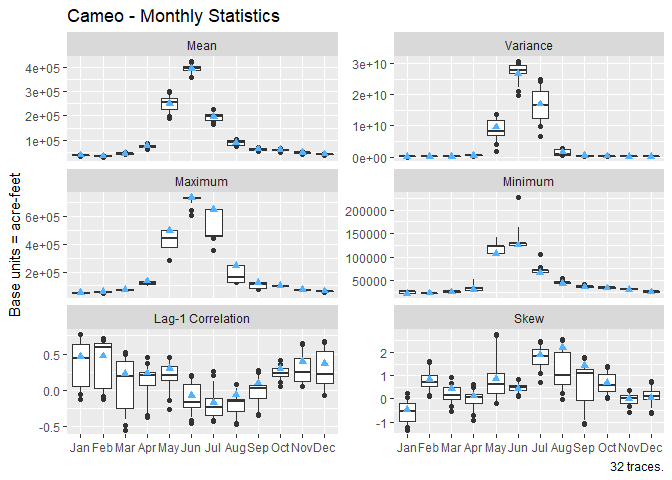
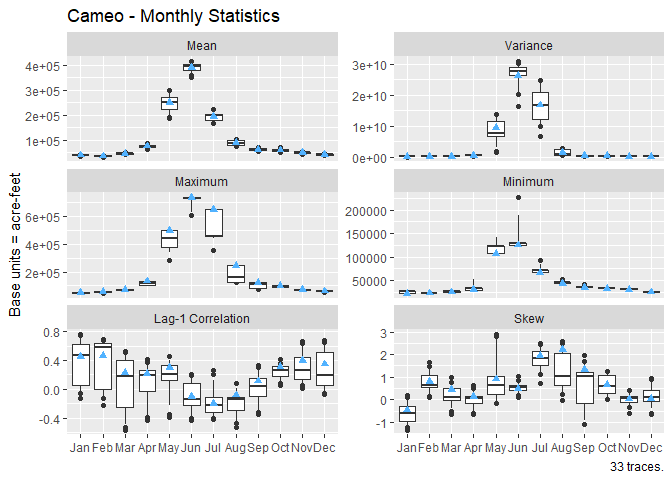
v0.10.0

diff --git a/README.md b/README.md
@@ -5,15 +5,15 @@
 
 <!-- badges: start -->
 
-*Stable version (v0.9.1):* [![R build
+*Stable version (v0.10.0):* [![R build
 status](https://github.com/BoulderCodeHub/CRSSIO/workflows/R-CMD-check/badge.svg)](https://github.com/BoulderCodeHub/CRSSIO/actions)
 [![Codecov test
 coverage](https://codecov.io/gh/BoulderCodeHub/CRSSIO/branch/master/graphs/badge.svg)](https://codecov.io/gh/BoulderCodeHub/CRSSIO)
 
 *Development version:* [![R build
-status](https://github.com/rabutler-usbr/CRSSIO/workflows/R-CMD-check/badge.svg)](https://github.com/rabutler-usbr/CRSSIO/actions)
+status](https://github.com/rabutler-usbr/CRSSIO/workflows/R-CMD-check/badge.svg)](https://github.com/BoulderCodeHub/CRSSIO/actions)
 [![Codecov test
-coverage](https://codecov.io/gh/rabutler-usbr/CRSSIO/branch/master/graph/badge.svg)](https://codecov.io/gh/rabutler-usbr/CRSSIO?branch=master)
+coverage](https://codecov.io/gh/BoulderCodeHub/CRSSIO/branch/dev/graph/badge.svg)](https://codecov.io/gh/rabutler-usbr/CRSSIO?branch=dev)
 <!-- badges: end -->
 
 R Package to manipulate the CRSS input and output data.
@@ -72,7 +72,7 @@ and flow space combinations are allowed, but there must be monthly
 intervening data.
 
 `crssi` objects add additional required input into CRSS: the Sacramento
-year type index and a scenario number.
+year type index, St. Vrain natural flow, and a scenario number.
 
 Several methods exist to work with these objects. `reindex()` changes
 the underlying time component so that historical data can be used for
@@ -91,42 +91,30 @@ statistics.
 ``` r
 library(CRSSIO)
 flows <- crss_nf(CoRiverNF::monthlyInt["1988/"])
-#> nfd: Natural Flow Data
-#>  ----------------------
-#>  n traces: 1 
-#>  dates: Jan 1988 - Dec 2019 
-#>  flow space:
-#>  - monthly intervening
 ism_flows <- ism(flows, n_years_keep = 15)
-#> nfd: Natural Flow Data
-#>  ----------------------
-#>  n traces: 32 
-#>  dates: Jan 1988 - Dec 2002 
-#>  flow space:
-#>  - monthly intervening
 hist_stats <- nfd_stats(flows, "Cameo", "intervening", "monthly")
 ism_stats <- nfd_stats(ism_flows, "Cameo", "intervening", "monthly")
 plot(ism_stats, ref = hist_stats, base_units = "acre-feet")
 ```
 
-<img src="man/figures/README-statPlot-1.png" width="100%" />
+<img src="man/figures/README-statPlot-1.png" alt="" width="100%" />
 
 ### `crssi_`
 
--   Create CRSS input files with `crssi_create_dnf_files()`,
-    `crssi_create_cmip_nf_files()`, and `crssi_create_hist_nf_xlsx()`
-    -   These files can also be created with a GUI through an R Studio
-        Addin (see `?crss_input_addin`)
--   Modify existing CRSS natural flow input files with
-    `crssi_change_nf_start_date()`, `crssi_change_nf_file_names()`, and
-    `crssi_change_evap_files()`
+- Create CRSS input files with `crssi_create_dnf_files()`,
+  `crssi_create_cmip_nf_files()`, and `crssi_create_hist_nf_xlsx()`
+  - These files can also be created with a GUI through an R Studio Addin
+    (see `?crss_input_addin`)
+- Modify existing CRSS natural flow input files with
+  `crssi_change_nf_start_date()`, `crssi_change_nf_file_names()`, and
+  `crssi_change_evap_files()`
 
 ### `crsso_`
 
--   `sys_cond_matrix()` and `crsso_get_sys_cond_table()` help create the
-    standard System Conditions Table from CRSS output. Commonly referred
-    to as the “5-year table” but it can go through as many years as
-    simulation data exists. Ex:
+- `sys_cond_matrix()` and `crsso_get_sys_cond_table()` help create the
+  standard System Conditions Table from CRSS output. Commonly referred
+  to as the “5-year table” but it can go through as many years as
+  simulation data exists. Ex:
 
 ``` r
 library(CRSSIO)
@@ -152,50 +140,51 @@ sysCondTable <- crsso_get_sys_cond_table(sysData, 2018:2022)
 
 ### Natural Flow and Salt Names
 
--   Vectors of the natural flow gage names (`nf_gage_names()`), along
-    with corresponding CRSS natural inflow input slot names
-    (`nf_file_names()`), corresponding CRSS natural salt input slot
-    names (`natsalt_file_names()`), and corresponding abbreviated, i.e.,
-    variable, names (`nf_gage_abbrv()`).
+- Vectors of the natural flow gage names (`nf_gage_names()`), along with
+  corresponding CRSS natural inflow input slot names
+  (`nf_file_names()`), corresponding CRSS natural salt input slot names
+  (`natsalt_file_names()`), and corresponding abbreviated, i.e.,
+  variable, names (`nf_gage_abbrv()`).
 
 ### Other CRSS Functions
 
--   `elevation_to_storage()` and `storage_to_elevation()` convert
-    between elevation and storage for reservoirs modeled in CRSS.
--   `ism_get_site_matrix()` applies the index sequential method (ISM) to
-    a single time series of data.
+- `elevation_to_storage()` and `storage_to_elevation()` convert between
+  elevation and storage for reservoirs modeled in CRSS.
+- `ism_get_site_matrix()` applies the index sequential method (ISM) to a
+  single time series of data.
 
 ## Plotting
 
--   `stat_boxplot_custom()` works with ggplots to add box and whisker
-    plots. It differs from `ggplot2::stat_boxplot()` in that it extends
-    the whiskers to specified percentiles instead of some scaled value
-    of the IQR.
--   `add_secondary_y_conversion()` adds a secondary y-axis to a plot. It
-    ensures that the secondary axis is a conversion of the primary axis
-    labels so the ticks match the grid lines from the primary axis.
+- `stat_boxplot_custom()` works with ggplots to add box and whisker
+  plots. It differs from `ggplot2::stat_boxplot()` in that it extends
+  the whiskers to specified percentiles instead of some scaled value of
+  the IQR.
+- `add_secondary_y_conversion()` adds a secondary y-axis to a plot. It
+  ensures that the secondary axis is a conversion of the primary axis
+  labels so the ticks match the grid lines from the primary axis.
 
 ## Log:
 
 For details, see the [News](NEWS.md)
 
--   2022-06-01: version 0.9.0 available
--   2021-03-24: version 0.8.2 available
--   2021-03-19: version 0.8.1 available
--   2020-06-12: version 0.8.0 available
--   2020-01-24: version 0.7.4 available
--   2019-07-25: version 0.7.3 available
--   2019-02-07: version 0.7.2 available
--   2019-01-18: version 0.7.1 available
--   2019-01-17: version 0.7.0 available
--   2018-11-29: version 0.6.3 available
--   2018-03-23: version 0.6.2 available
--   2018-01-23: version 0.6.1 available
--   2018-01-17: version 0.6.0 available
--   2017-08-30: version 0.5.0 available
--   2017-05-10: version 0.4.1 available
--   2017-03-31: version 0.4.0 available
--   2016-10-04: version 0.3 available
--   2016-05-30: version 0.2.1 available
--   2016-05-05: version 0.2 available
--   2015-02-10: version 0.1 available
+- 2026-08-28: version 0.10.0 available
+- 2022-06-01: version 0.9.0 available
+- 2021-03-24: version 0.8.2 available
+- 2021-03-19: version 0.8.1 available
+- 2020-06-12: version 0.8.0 available
+- 2020-01-24: version 0.7.4 available
+- 2019-07-25: version 0.7.3 available
+- 2019-02-07: version 0.7.2 available
+- 2019-01-18: version 0.7.1 available
+- 2019-01-17: version 0.7.0 available
+- 2018-11-29: version 0.6.3 available
+- 2018-03-23: version 0.6.2 available
+- 2018-01-23: version 0.6.1 available
+- 2018-01-17: version 0.6.0 available
+- 2017-08-30: version 0.5.0 available
+- 2017-05-10: version 0.4.1 available
+- 2017-03-31: version 0.4.0 available
+- 2016-10-04: version 0.3 available
+- 2016-05-30: version 0.2.1 available
+- 2016-05-05: version 0.2 available
+- 2015-02-10: version 0.1 available

diff --git a/NEWS.md b/NEWS.md
@@ -1,22 +1,20 @@
-CRSSIO XXXXX ALAN PLEASE UPDATE WITH CORRECT VERSION NUMBER
-=================
-
-- added function `st_vrain_nf_calc()` to calculate St. Vrain natural flow, a necessary input to CRSS, as a function of total natural flow at Glenwood Springs
-- added parameter st_vrain_nf to function `crssi()`
-- Updated crss-input.Rmd with examples of how to use `st_vrain_nf_calc()` and integrate into the pipeline for creating input files for CRSS.
-- replaced udunits2 package with units b/c udunits2 is orphaned
-- Fixed reference to the paleo reconstruction of the Sacramento 4-river index in `sac_year_type_get()`. Now correctly points to Meko et al. (2014)
-- `add_secondary_y_conversion()` uses `transform` parameter as `trans` was deprecated several ggplot versions ago
-- updated `stat_boxplot_customs()` for changes to ggplot2. Now depends on ggplot2 > 4.0.0.
-- switched everything to |> pipe and removed dependency on magrittr
-- HydrologyParameters.SupplyScenario now keeps the trailing 0 when writing number out, e.g., 1.20002010 (#120)
-- Updated test in comparing Excel file and CoRiverNF file creation to look at all sites (#127)
-
-CRSSIO 0.9.1.9000
+CRSSIO 0.10.0
 =================
 
 *In development*
 
+## Major (& API breaking) changes
+
+- The St Vrain natural flow is a necessary input to CRSS. Several updates were made so this is now included in this packages. Thank you @nbonham-usbr.
+  - Added `st_vrain_nf_calc()` to calculate St. Vrain natural flow, as a function of total natural flow at Glenwood Springs. Supporting data/code for this is included in data-raw/StVrain_NaturalFlow_Documentation.
+  - Added parameter `st_vrain_nf` to `crssi()` as it is a necessary input to CRSS. 
+  - Updated CRSS Input vignette with examples of how to use `st_vrain_nf_calc()` and integrate into the pipeline for creating input files for CRSS.
+
+
+## Minor changes and bug fixes
+
+- Fixed reference to the paleo reconstruction of the Sacramento 4-river index in `sac_year_type_get()`. Now correctly points to Meko et al. (2014)
+- When writing out the scenario number (from `crssi()`), the trailing 0 is now kept, e.g., 1.20002010 (#120)
 - Removed print statements from `nfd()` constructors. This prevents the possibility for multiple prints being called when extracting data or converting between `nfd`, `crss_nf` and `crssi` objects. (#125)
 - Updated internal Sacramento Year Type Index data (`sac_year_type_get(internal = TRUE)`) to go through 2022. (#123)
   - Note that it now has a WY (September) based timestep.
@@ -25,6 +23,15 @@ CRSSIO 0.9.1.9000
 - Updated `crssi()` to work with Sacramento year type that is WY or CY based. Either way, the index is assumed to be for the year in the xts object, i.e., the month is effectively ignored. (#118)
 - Fixed two bugs in `nf_to_annual.crss_nf()`. First, it can now correctly sum over a water year for a calendar year object. Second, it now drops monthly when `keep_monthly = FALSE`. (#121)
 - Updated Flaming Gorge elevation-volume table to use latest. (#117)
+
+
+## Under the hood updates
+
+- Replaced udunits2 package with units package because udunits2 is orphaned.
+- `add_secondary_y_conversion()` uses `transform` parameter as `trans` was deprecated several ggplot versions ago.
+- Updated `stat_boxplot_customs()` for changes to ggplot2. Now depends on ggplot2 > 4.0.0.
+- (Unnecessarily) switched everything to |> pipe and removed dependency on magrittr.
+- Updated test in comparing Excel file and CoRiverNF file creation to look at all sites (#127)
 
 CRSSIO 0.9.1
 =================
